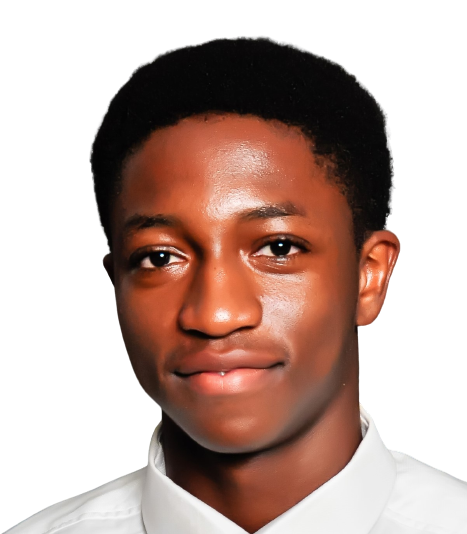
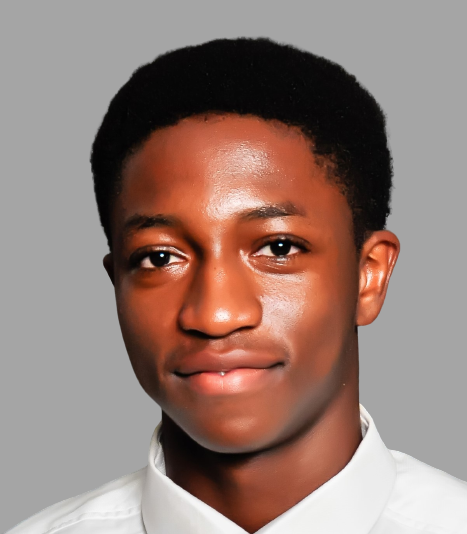
styled login page

diff --git a/app/globals.css b/app/globals.css
@@ -1,0 +1,134 @@
+/* GENERAL */
+#app {
+    display: flex;
+    flex-direction: column;
+    min-height: 100vh;
+}
+
+/* HERO */
+#hero {
+    display: grid;
+    grid-template-columns: repeat(1, minmax(0, 1fr));
+}
+
+#hero > div {
+    padding: 2rem;
+}
+
+.hero-img {
+    position: fixed;
+    top: 0;
+    left: 0;
+    width: 100%;
+    height: 100%;
+    z-index: -1;
+    overflow: hidden;
+}
+
+.hero-img img {
+    position: absolute;
+    bottom: 0;
+    left: 0;
+    width: 100%;
+    height: 100%;
+    object-fit: cover;
+    z-index: -1;
+}
+
+.login-container {
+    display: flex;
+    flex-direction: column;
+    gap: 1.25rem;
+    max-width: 600px;
+    width: 100%;
+    margin: 0 auto;
+}
+
+.login-container input {
+    width: 100%;
+    max-width: unset;
+    padding: 0.75rem;
+}
+
+.submit-btn {
+    width: 100%;
+    max-width: unset;
+    display: grid;
+    place-items: center;
+    padding: 0.5rem;
+}
+
+.secondary-btns-container {
+    display: grid;
+    grid-template-columns: repeat(2, minmax(0, 1fr));
+    gap: 1rem;
+}
+
+.secondary-btns-container button {
+    white-space: nowrap;
+    padding: 0.5rem 1rem;
+    cursor: pointer;
+    width: 100%;
+    max-width: unset;
+}
+
+footer {
+    display: flex;
+    flex-direction: column;
+    gap: 0.5rem;
+    align-items: center;
+    padding: 1rem 0;
+}
+
+footer a {
+    display: flex;
+    align-items: center;
+    gap: 0.5rem;
+    padding: 0.5rem;
+    padding-right: 0.75rem;
+    background: var(--background-muted);
+    border: 1px solid transparent;
+    transition-duration: 200ms;
+    text-decoration: none;
+}
+
+footer a:hover {
+    border-color: var(--color-link);
+}
+
+footer a img {
+    max-width: 30px;
+    aspect-ratio: 1 / 1;
+    border-radius: 100%;
+}
+
+/* DASHBOARD */
+
+/* UTILITY */
+
+/* MEDIA QUERIES */
+@media (min-width: 640px) {
+     #hero {
+        grid-template-columns: repeat(2, minmax(0, 1fr));
+        flex: 1;
+     }
+
+     .hero-img {
+        position: sticky;
+        max-height: 100vh;
+     }
+}
+
+@media (min-width: 768px) {
+     
+}
+
+@media (min-width: 1024px) {
+     #hero {
+        grid-template-columns: repeat(3, minmax(0, 1fr));
+     }
+
+     .hero-img {
+        grid-column: span 2 / span 2;
+     }
+}
